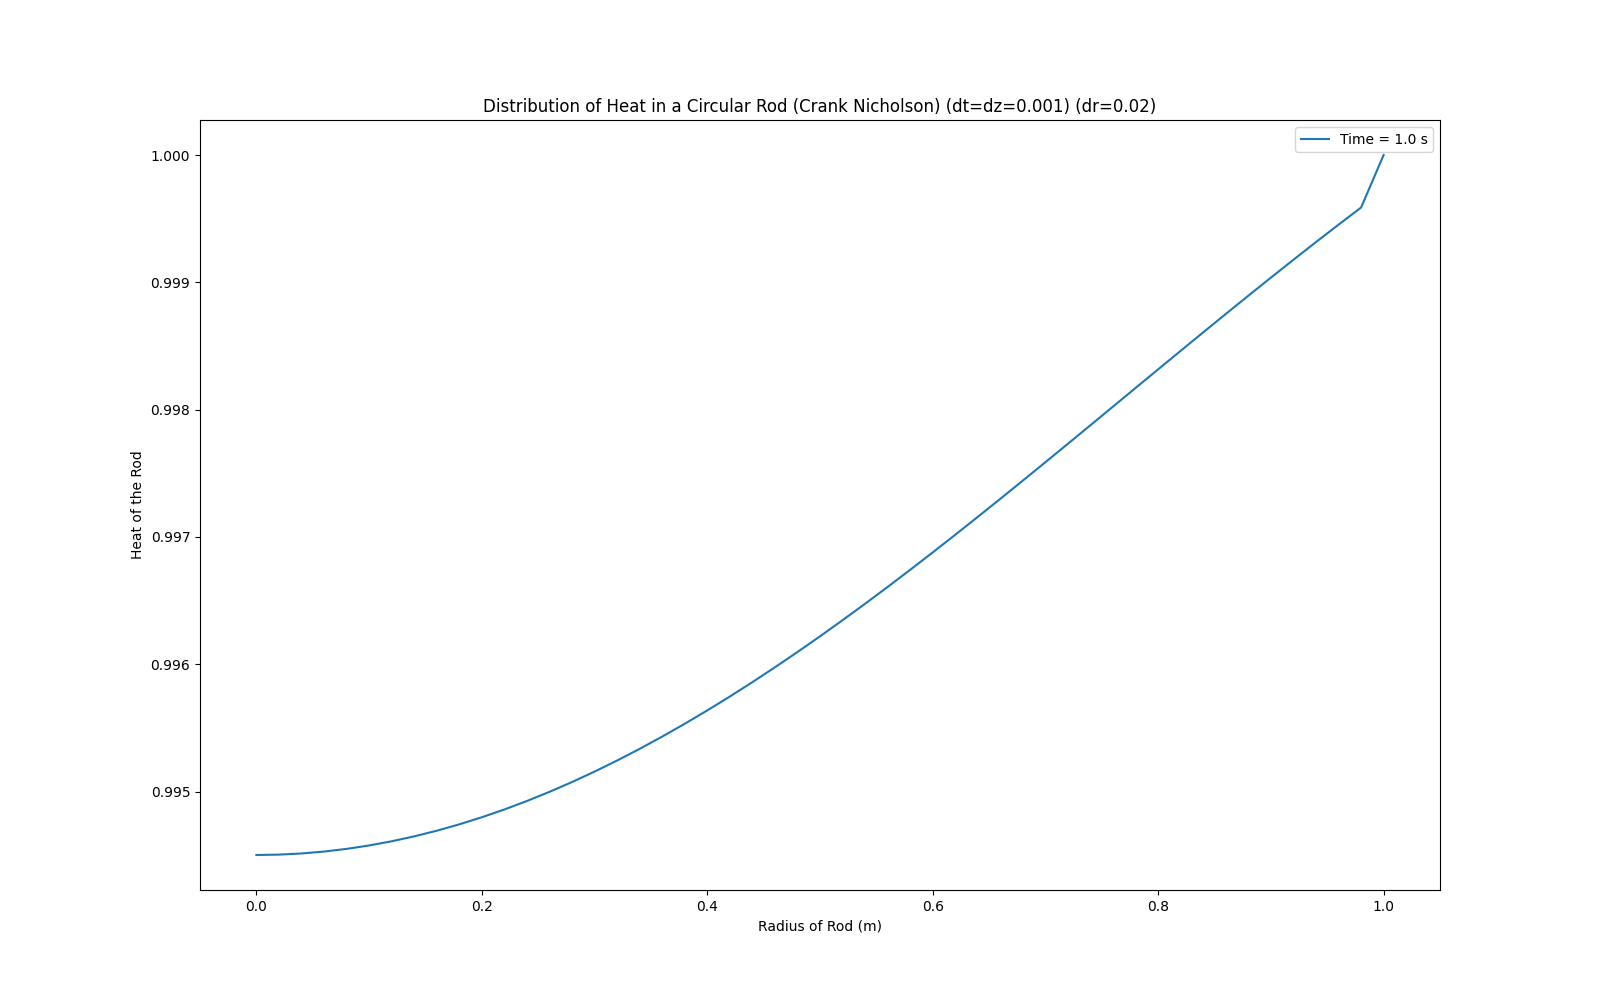
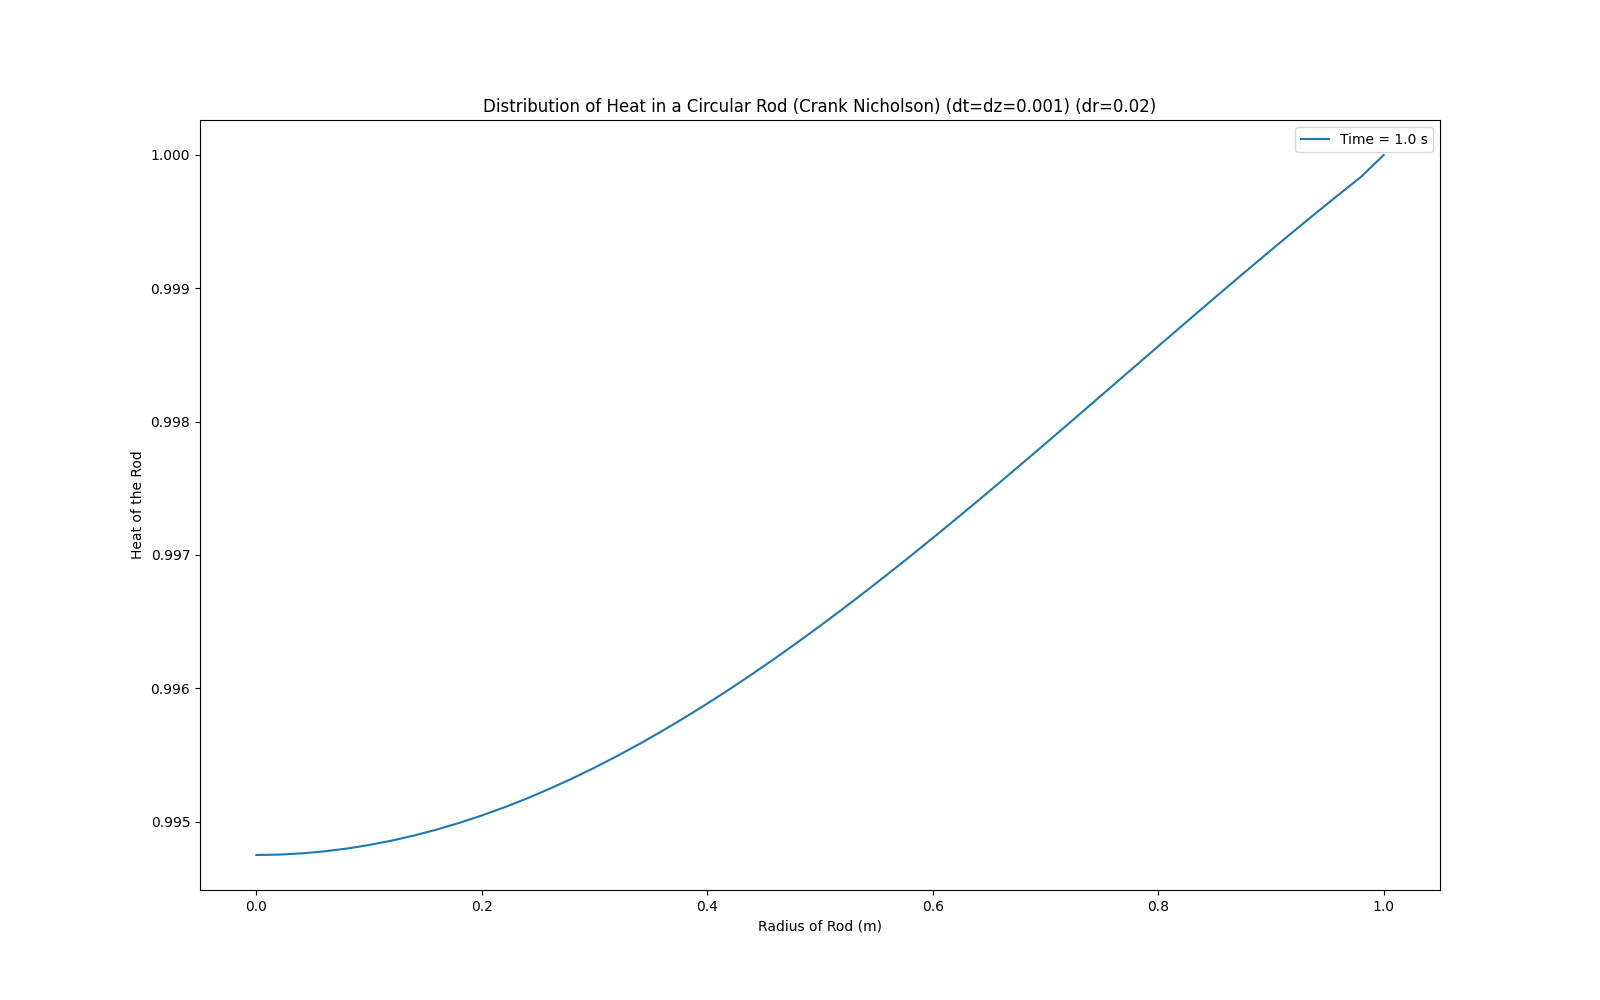
Final Fix and Submission

diff --git a/Assignments/Assignment 4/CranckNicholson.py b/Assignments/Assignment 4/CranckNicholson.py
@@ -11,7 +11,7 @@ import matplotlib.pyplot as plt
 #
 
 # Define dr the Start, End and Number of Space Nodes, and create the array of Values
-dr = 0.02
+dr = 0.2
 rInit = 0
 rEnd = 1
 rNodes = int((rEnd - rInit)/dr + 1)
@@ -26,7 +26,7 @@ UInit = 0
 
 #Using t instead of z
 # Define dt the Start, End and Number of Time Nodes, and create the array of Values
-dt = 0.001
+dt = 0.1
 tInit = 0
 tEnd = 1.0
 tNodes = int((tEnd - tInit)/dt + 1)
@@ -72,7 +72,7 @@ for l in range(tNodes - 1):
     
     # Apply Both Boundary Conditions
     b[0] = -U[l, 2] + 4*U[l, 1] - 3*U[l, 0]
-    b[-1] = 2*lam*(1+dr/(2*rVals[-1])) * URight + (1 - 2*lam)*U[l, -1] + lam*(1 - dr/(2*rVals[-1]))*U[l, -2]
+    b[-1] = 2*lam*(1+dr/(2*rVals[-2])) * URight + (1 - 2*lam)*U[l, -1] + lam*(1 - dr/(2*rVals[-2]))*U[l, -2]
     
     # Set all other b Vector Values
     for i in range(1, rNodes - 2):
